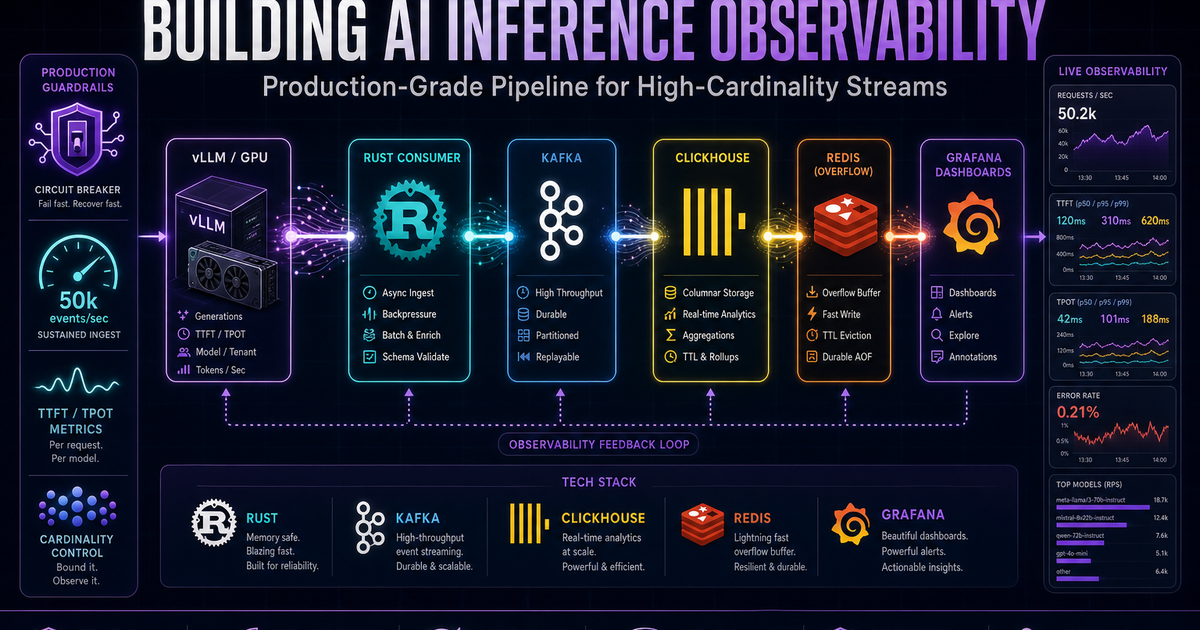
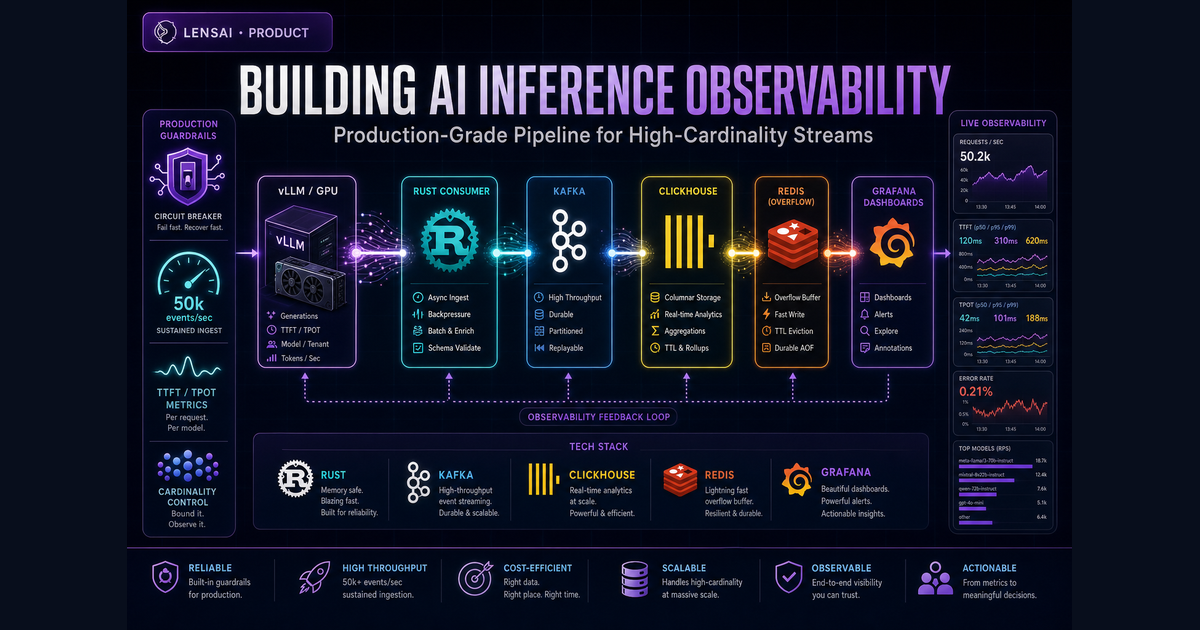
fix(blog): wide landscape cover images and layout
Letterbox infographics to 1200×630 instead of center-crop, and span
covers at --layout-max width above the article grid on all eight posts.

diff --git a/blog/series/inference-ai-project/building-ai-inference-observability.html b/blog/series/inference-ai-project/building-ai-inference-observability.html
@@ -26,6 +26,7 @@
   --text:#242424;--sub:#6b6b6b;--muted:#757575;--green:#1a8917;
   --green-soft:rgba(26,137,23,.08);
   --hover-surface:rgba(0,0,0,.035);
+  --layout-max:1080px;
   --ui:'Inter',system-ui,sans-serif;--serif:'Source Serif 4',Georgia,serif;--mono:ui-monospace,Menlo,Consolas,monospace;
 }
 html[data-theme="dark"]{
@@ -60,7 +61,8 @@ html[data-theme="dark"] .theme-toggle .icon-sun{display:block}
 .ptag-rs{border-color:#ddd6fe;color:#6d28d9;background:#f5f3ff}
 .post-hdr h1{font-family:var(--serif);font-size:clamp(1.75rem,4vw,2.5rem);font-weight:600;line-height:1.15;letter-spacing:-.03em;margin-bottom:14px}
 .post-meta{display:flex;align-items:center;gap:12px;font-size:.8125rem;color:var(--muted);flex-wrap:wrap}
-.post-cover{margin:0 0 2rem;border-radius:8px;overflow:hidden;border:1px solid var(--line)}
+.post-cover-wrap{max-width:var(--layout-max);margin:0 auto;padding:0 clamp(1rem,3vw,2rem) 2rem}
+.post-cover{margin:0;border-radius:8px;overflow:hidden;border:1px solid var(--line);background:#080e1c}
 .post-cover img{width:100%;height:auto;display:block}
 .sep{color:var(--line2)}
 hr.post-div{border:none;border-top:1px solid var(--line);margin:0 0 40px}
@@ -163,9 +165,15 @@ a.series-post-title:hover{color:var(--green)}
     </div>
   </header>
 
+</div>
+
+<div class="post-cover-wrap">
   <figure class="post-cover">
     <img src="../../assets/covers/building-ai-inference-observability.png" alt="Cover: Building a production-grade AI inference observability pipeline — LensAI · Product" width="1200" height="630" loading="eager">
   </figure>
+</div>
+
+<div class="w">
 
   <hr class="post-div">
 

diff --git a/blog/series/agoda/seven-million-iot-sensors-failure-modes.html b/blog/series/agoda/seven-million-iot-sensors-failure-modes.html
@@ -67,7 +67,8 @@ html[data-theme="dark"] .theme-toggle .icon-sun{display:block}
 .author-name{font-size:.875rem;font-weight:600;color:var(--text)}
 .meta-divider{width:1px;height:18px;background:var(--line)}
 .meta-item{font-size:.8125rem;color:var(--muted)}
-.post-cover{margin:0 auto 2rem;max-width:var(--read);padding:0 clamp(1rem,3vw,2rem);border-radius:8px;overflow:hidden;border:1px solid var(--line)}
+.post-cover-wrap{max-width:var(--layout-max);margin:0 auto;padding:0 clamp(1rem,3vw,2rem) 2rem}
+.post-cover{margin:0;border-radius:8px;overflow:hidden;border:1px solid var(--line);background:#080e1c}
 .post-cover img{width:100%;height:auto;display:block}
 .post-layout{max-width:var(--layout-max);margin:0 auto;padding:40px clamp(1rem,3vw,2rem) 0;display:grid;grid-template-columns:minmax(0,1fr) minmax(240px,280px);gap:48px;align-items:start}
 @media(max-width:820px){.post-layout{grid-template-columns:1fr}.post-sidebar{display:none}}
@@ -207,9 +208,11 @@ html[data-theme="dark"] .prose code{color:#e8e8e4;background:rgba(255,255,255,.0
   </div>
 </header>
 
+<div class="post-cover-wrap">
 <figure class="post-cover">
   <img src="../../assets/covers/seven-million-iot-sensors-failure-modes.png" alt="Cover: Seven Million IoT Sensors — Experience 3 of N" width="1200" height="630" loading="eager">
 </figure>
+</div>
 
 <div class="post-layout">
 <article class="prose">

diff --git a/blog/series/agoda/building-tsdb-at-agoda.html b/blog/series/agoda/building-tsdb-at-agoda.html
@@ -67,7 +67,8 @@ html[data-theme="dark"] .theme-toggle .icon-sun{display:block}
 .author-name{font-size:.875rem;font-weight:600;color:var(--text)}
 .meta-divider{width:1px;height:18px;background:var(--line)}
 .meta-item{font-size:.8125rem;color:var(--muted)}
-.post-cover{margin:0 auto 2rem;max-width:var(--read);padding:0 clamp(1rem,3vw,2rem);border-radius:8px;overflow:hidden;border:1px solid var(--line)}
+.post-cover-wrap{max-width:var(--layout-max);margin:0 auto;padding:0 clamp(1rem,3vw,2rem) 2rem}
+.post-cover{margin:0;border-radius:8px;overflow:hidden;border:1px solid var(--line);background:#080e1c}
 .post-cover img{width:100%;height:auto;display:block}
 .post-layout{max-width:var(--layout-max);margin:0 auto;padding:40px clamp(1rem,3vw,2rem) 0;display:grid;grid-template-columns:minmax(0,1fr) minmax(240px,280px);gap:48px;align-items:start}
 @media(max-width:820px){.post-layout{grid-template-columns:1fr}.post-sidebar{display:none}}
@@ -203,9 +204,11 @@ html[data-theme="dark"] .prose code{color:#e8e8e4;background:rgba(255,255,255,.0
   </div>
 </header>
 
+<div class="post-cover-wrap">
 <figure class="post-cover">
   <img src="../../assets/covers/building-tsdb-at-agoda.png" alt="Cover: 1.5 trillion events/day TSDB at Agoda — Experience 1 of N" width="1200" height="630" loading="eager">
 </figure>
+</div>
 
 <div class="post-layout">
 <article class="prose">

diff --git a/blog/series/agoda/when-percentiles-lie-cross-tier-queries.html b/blog/series/agoda/when-percentiles-lie-cross-tier-queries.html
@@ -67,7 +67,8 @@ html[data-theme="dark"] .theme-toggle .icon-sun{display:block}
 .author-name{font-size:.875rem;font-weight:600;color:var(--text)}
 .meta-divider{width:1px;height:18px;background:var(--line)}
 .meta-item{font-size:.8125rem;color:var(--muted)}
-.post-cover{margin:0 auto 2rem;max-width:var(--read);padding:0 clamp(1rem,3vw,2rem);border-radius:8px;overflow:hidden;border:1px solid var(--line)}
+.post-cover-wrap{max-width:var(--layout-max);margin:0 auto;padding:0 clamp(1rem,3vw,2rem) 2rem}
+.post-cover{margin:0;border-radius:8px;overflow:hidden;border:1px solid var(--line);background:#080e1c}
 .post-cover img{width:100%;height:auto;display:block}
 .post-layout{max-width:var(--layout-max);margin:0 auto;padding:40px clamp(1rem,3vw,2rem) 0;display:grid;grid-template-columns:minmax(0,1fr) minmax(240px,280px);gap:48px;align-items:start}
 @media(max-width:820px){.post-layout{grid-template-columns:1fr}.post-sidebar{display:none}}
@@ -209,9 +210,11 @@ html[data-theme="dark"] .prose code{color:#e8e8e4;background:rgba(255,255,255,.0
   </div>
 </header>
 
+<div class="post-cover-wrap">
 <figure class="post-cover">
   <img src="../../assets/covers/when-percentiles-lie-cross-tier-queries.png" alt="Cover: When Percentiles Lie — Experience 2 of N" width="1200" height="630" loading="eager">
 </figure>
+</div>
 
 <div class="post-layout">
 <article class="prose">

diff --git a/blog/series/ai-learning/day-1-kv-cache-memory-bandwidth.html b/blog/series/ai-learning/day-1-kv-cache-memory-bandwidth.html
@@ -67,7 +67,8 @@ html[data-theme="dark"] .theme-toggle .icon-sun{display:block}
 .author-name{font-size:.875rem;font-weight:600;color:var(--text)}
 .meta-divider{width:1px;height:18px;background:var(--line)}
 .meta-item{font-size:.8125rem;color:var(--muted)}
-.post-cover{margin:0 auto 2rem;max-width:var(--read);padding:0 clamp(1rem,3vw,2rem);border-radius:8px;overflow:hidden;border:1px solid var(--line)}
+.post-cover-wrap{max-width:var(--layout-max);margin:0 auto;padding:0 clamp(1rem,3vw,2rem) 2rem}
+.post-cover{margin:0;border-radius:8px;overflow:hidden;border:1px solid var(--line);background:#080e1c}
 .post-cover img{width:100%;height:auto;display:block}
 .post-layout{max-width:var(--layout-max);margin:0 auto;padding:40px clamp(1rem,3vw,2rem) 0;display:grid;grid-template-columns:minmax(0,1fr) minmax(240px,280px);gap:48px;align-items:start}
 @media(max-width:820px){.post-layout{grid-template-columns:1fr}.post-sidebar{display:none}}
@@ -202,9 +203,11 @@ html[data-theme="dark"] .prose em{color:var(--sub)}
   </div>
 </header>
 
+<div class="post-cover-wrap">
 <figure class="post-cover">
   <img src="../../assets/covers/day-1-kv-cache-memory-bandwidth.png" alt="Cover: The KV Cache Is a Memory Bandwidth Problem — Day 1 of N" width="1200" height="630" loading="eager">
 </figure>
+</div>
 
 <div class="post-layout">
 <article class="prose">

diff --git a/blog/series/ai-learning/day-3-token-budgets-cost-structure.html b/blog/series/ai-learning/day-3-token-budgets-cost-structure.html
@@ -67,7 +67,8 @@ html[data-theme="dark"] .theme-toggle .icon-sun{display:block}
 .author-name{font-size:.875rem;font-weight:600;color:var(--text)}
 .meta-divider{width:1px;height:18px;background:var(--line)}
 .meta-item{font-size:.8125rem;color:var(--muted)}
-.post-cover{margin:0 auto 2rem;max-width:var(--read);padding:0 clamp(1rem,3vw,2rem);border-radius:8px;overflow:hidden;border:1px solid var(--line)}
+.post-cover-wrap{max-width:var(--layout-max);margin:0 auto;padding:0 clamp(1rem,3vw,2rem) 2rem}
+.post-cover{margin:0;border-radius:8px;overflow:hidden;border:1px solid var(--line);background:#080e1c}
 .post-cover img{width:100%;height:auto;display:block}
 .post-layout{max-width:var(--layout-max);margin:0 auto;padding:40px clamp(1rem,3vw,2rem) 0;display:grid;grid-template-columns:minmax(0,1fr) minmax(240px,280px);gap:48px;align-items:start}
 @media(max-width:820px){.post-layout{grid-template-columns:1fr}.post-sidebar{display:none}}
@@ -210,9 +211,11 @@ html[data-theme="dark"] .prose em{color:var(--sub)}
   </div>
 </header>
 
+<div class="post-cover-wrap">
 <figure class="post-cover">
   <img src="../../assets/covers/day-3-token-budgets-cost-structure.png" alt="Cover: Token Budgets and Real Cost Structure — Day 3 of N" width="1200" height="630" loading="eager">
 </figure>
+</div>
 
 <div class="post-layout">
 <article class="prose">

diff --git a/blog/series/ai-learning/day-2-continuous-batching-vllm.html b/blog/series/ai-learning/day-2-continuous-batching-vllm.html
@@ -67,7 +67,8 @@ html[data-theme="dark"] .theme-toggle .icon-sun{display:block}
 .author-name{font-size:.875rem;font-weight:600;color:var(--text)}
 .meta-divider{width:1px;height:18px;background:var(--line)}
 .meta-item{font-size:.8125rem;color:var(--muted)}
-.post-cover{margin:0 auto 2rem;max-width:var(--read);padding:0 clamp(1rem,3vw,2rem);border-radius:8px;overflow:hidden;border:1px solid var(--line)}
+.post-cover-wrap{max-width:var(--layout-max);margin:0 auto;padding:0 clamp(1rem,3vw,2rem) 2rem}
+.post-cover{margin:0;border-radius:8px;overflow:hidden;border:1px solid var(--line);background:#080e1c}
 .post-cover img{width:100%;height:auto;display:block}
 .post-layout{max-width:var(--layout-max);margin:0 auto;padding:40px clamp(1rem,3vw,2rem) 0;display:grid;grid-template-columns:minmax(0,1fr) minmax(240px,280px);gap:48px;align-items:start}
 @media(max-width:820px){.post-layout{grid-template-columns:1fr}.post-sidebar{display:none}}
@@ -208,9 +209,11 @@ html[data-theme="dark"] .prose em{color:var(--sub)}
   </div>
 </header>
 
+<div class="post-cover-wrap">
 <figure class="post-cover">
   <img src="../../assets/covers/day-2-continuous-batching-vllm.png" alt="Cover: Continuous Batching in vLLM — Day 2 of N" width="1200" height="630" loading="eager">
 </figure>
+</div>
 
 <div class="post-layout">
 <article class="prose">

diff --git a/blog/series/ai-learning/day-0-series-roadmap.html b/blog/series/ai-learning/day-0-series-roadmap.html
@@ -67,7 +67,8 @@ html[data-theme="dark"] .theme-toggle .icon-sun{display:block}
 .author-name{font-size:.875rem;font-weight:600;color:var(--text)}
 .meta-divider{width:1px;height:18px;background:var(--line)}
 .meta-item{font-size:.8125rem;color:var(--muted)}
-.post-cover{margin:0 auto 2rem;max-width:var(--read);padding:0 clamp(1rem,3vw,2rem);border-radius:8px;overflow:hidden;border:1px solid var(--line)}
+.post-cover-wrap{max-width:var(--layout-max);margin:0 auto;padding:0 clamp(1rem,3vw,2rem) 2rem}
+.post-cover{margin:0;border-radius:8px;overflow:hidden;border:1px solid var(--line);background:#080e1c}
 .post-cover img{width:100%;height:auto;display:block}
 .post-layout{max-width:var(--layout-max);margin:0 auto;padding:40px clamp(1rem,3vw,2rem) 0;display:grid;grid-template-columns:minmax(0,1fr) minmax(240px,280px);gap:48px;align-items:start}
 @media(max-width:820px){.post-layout{grid-template-columns:1fr}.post-sidebar{display:none}}
@@ -201,9 +202,11 @@ html[data-theme="dark"] .prose em{color:var(--sub)}
   </div>
 </header>
 
+<div class="post-cover-wrap">
 <figure class="post-cover">
   <img src="../../assets/covers/day-0-series-roadmap.png" alt="Cover: Why I'm writing this series — Day 0 of N" width="1200" height="630" loading="eager">
 </figure>
+</div>
 
 <div class="post-layout">
 <article class="prose">

diff --git a/blog/POST-TEMPLATE.html b/blog/POST-TEMPLATE.html
@@ -100,6 +100,9 @@ html[data-theme="dark"] .theme-toggle .icon-sun{display:block}
 .post-meta{display:flex;align-items:center;gap:12px;font-size:.8125rem;color:var(--muted);flex-wrap:wrap}
 .sep{color:var(--line2)}
 hr.post-div{border:none;border-top:1px solid var(--line);margin:0 0 40px}
+.post-cover-wrap{max-width:var(--layout-max);margin:0 auto;padding:0 clamp(1rem,3vw,2rem) 2rem}
+.post-cover{margin:0;border-radius:8px;overflow:hidden;border:1px solid var(--line);background:#080e1c}
+.post-cover img{width:100%;height:auto;display:block}
 .prose{font-family:var(--serif);font-size:1.1875rem;line-height:1.82;color:#242424;margin-bottom:48px;font-weight:400;max-width:var(--read)}
 .post-layout .prose{max-width:none}
 .prose p{margin-bottom:1.45em}
@@ -193,6 +196,16 @@ html[data-theme="dark"] .prose code{color:#e8e8e4;background:rgba(255,255,255,.0
       <span>12 min read</span>
     </div>
   </header>
+
+</div>
+
+<div class="post-cover-wrap">
+  <figure class="post-cover">
+    <img src="../../assets/covers/your-slug.png" alt="Cover: POST TITLE HERE" width="1200" height="630" loading="eager">
+  </figure>
+</div>
+
+<div class="w">
 
   <hr class="post-div">
 

diff --git a/scripts/generate_blog_covers.py b/scripts/generate_blog_covers.py
@@ -26,7 +26,10 @@ DEFAULT_ASSETS = Path(
     "/Users/akshant/.cursor/projects/Users-akshant-Desktop-github-Profile/assets"
 )
 
+# LinkedIn / Open Graph standard (1.91:1). All exports are exactly W×H — never square.
 W, H = 1200, 630
+COVER_ASPECT = W / H  # 1.904761…
+LETTERBOX_BG = (8, 14, 28)  # dark bars for square/tall sources
 
 # slug → (source filename under assets dir, new badge text)
 USER_ART: dict[str, tuple[str, str]] = {
@@ -128,15 +131,15 @@ def _font(size: int, bold: bool = True) -> ImageFont.FreeTypeFont | ImageFont.Im
     return ImageFont.load_default()
 
 
-def resize_cover(img: Image.Image) -> Image.Image:
-    """Center-crop scale to exactly W×H."""
+def resize_cover(img: Image.Image, bg: tuple[int, int, int] = LETTERBOX_BG) -> Image.Image:
+    """Fit inside W×H with minimal letterboxing (dark bars), never center-crop to square."""
     img = img.convert("RGB")
-    scale = max(W / img.width, H / img.height)
-    nw, nh = int(img.width * scale), int(img.height * scale)
-    img = img.resize((nw, nh), Image.Resampling.LANCZOS)
-    left = (nw - W) // 2
-    top = (nh - H) // 2
-    return img.crop((left, top, left + W, top + H))
+    scale = min(W / img.width, H / img.height)
+    nw, nh = max(1, int(img.width * scale)), max(1, int(img.height * scale))
+    fitted = img.resize((nw, nh), Image.Resampling.LANCZOS)
+    canvas = Image.new("RGB", (W, H), bg)
+    canvas.paste(fitted, ((W - nw) // 2, (H - nh) // 2))
+    return canvas
 
 
 def _patch_badge_day1(img: Image.Image, badge: str) -> Image.Image:

diff --git a/blog/NEW-POST-CHECKLIST.md b/blog/NEW-POST-CHECKLIST.md
@@ -42,7 +42,8 @@ Use this whenever you publish a post in an existing series.
     <img src="../../assets/covers/<slug>.png" alt="…" width="1200" height="630" loading="eager">
   </figure>
   ```
-  Copy `.post-cover` CSS from a sibling post (`margin`, `border-radius`, `border: 1px solid var(--line)`, `img { width:100% }`).
+  Wrap in `<div class="post-cover-wrap">` (full layout width, not `--read`). CSS from a sibling post:
+  `.post-cover-wrap { max-width: var(--layout-max); … }` · `.post-cover img { width:100%; height:auto }` · assets **1200×630** (1.91:1).
 - [ ] **`article:published_time`** — ISO date `YYYY-MM-DD` (this is the **sort date**; do not rely on JSON).
 - [ ] Optional: **`article:modified_time`** only if you revise the post later (sort uses the **later** of published vs modified).
 
